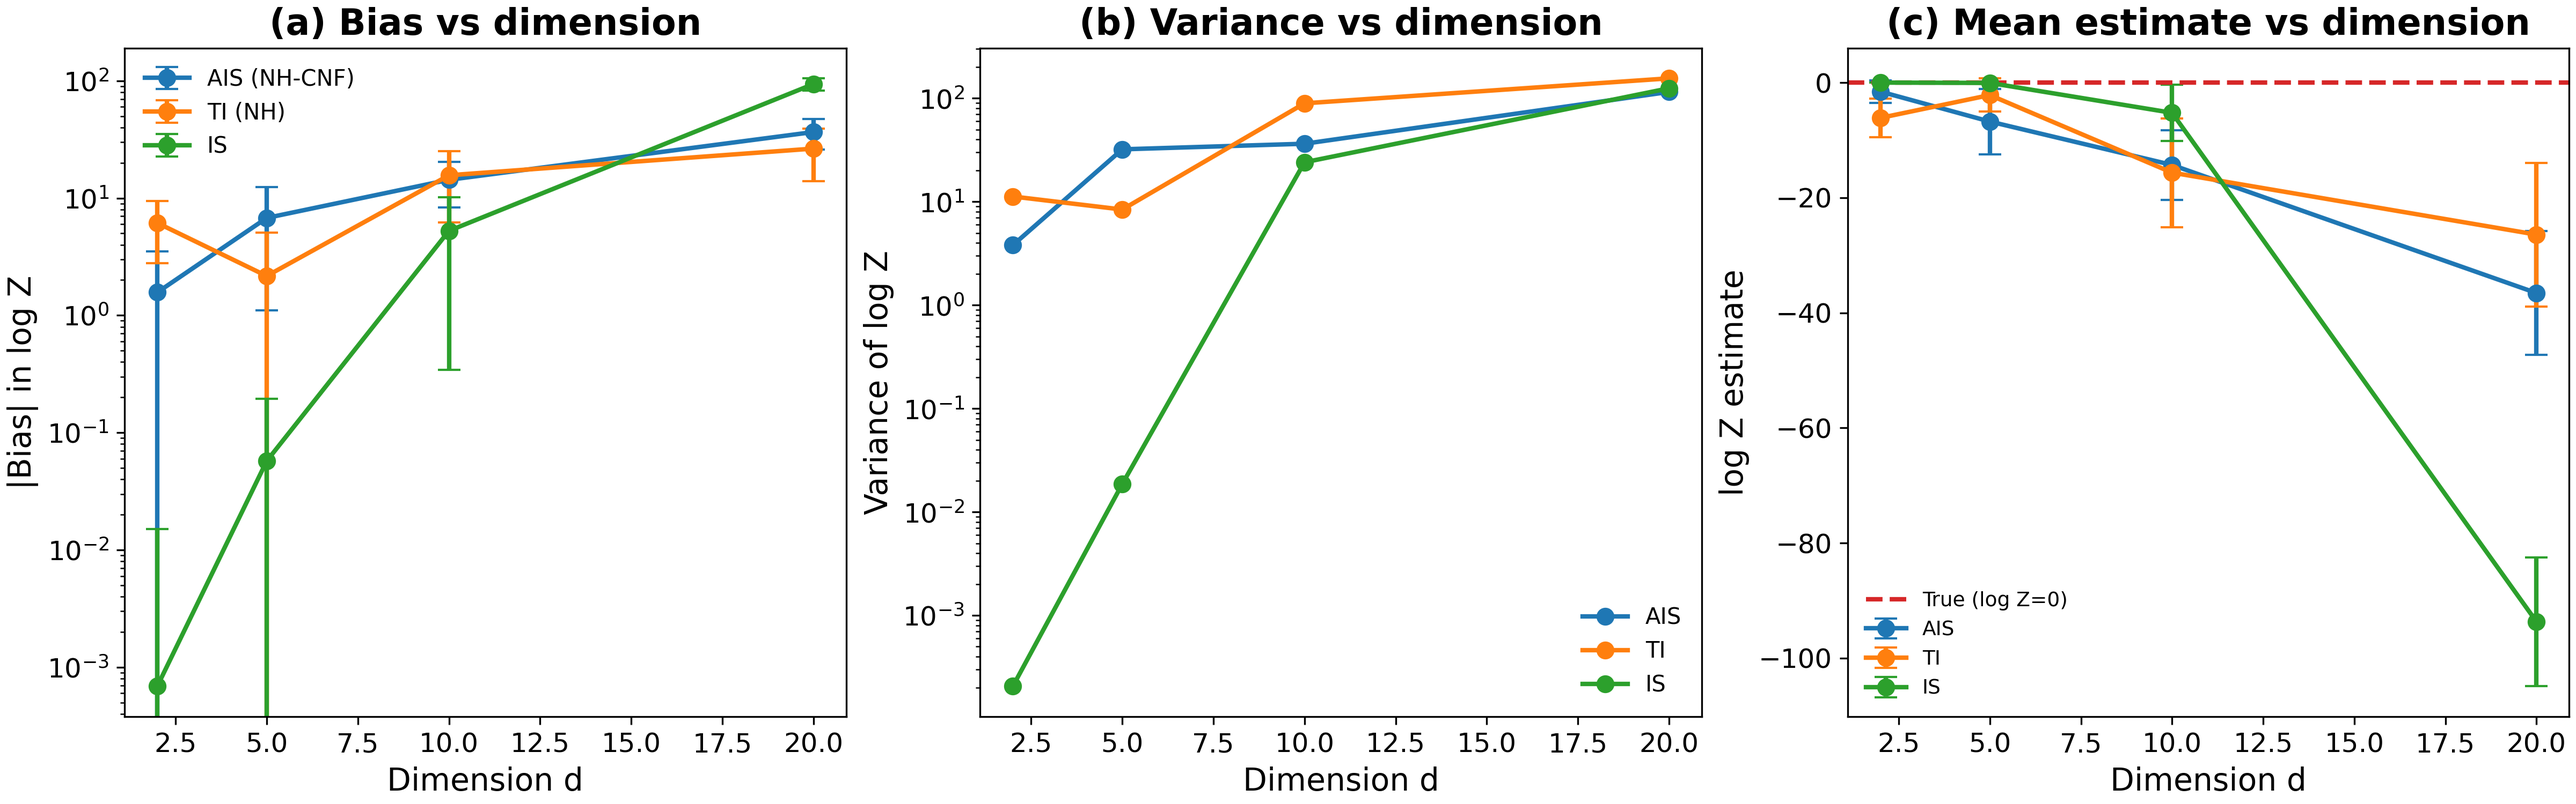
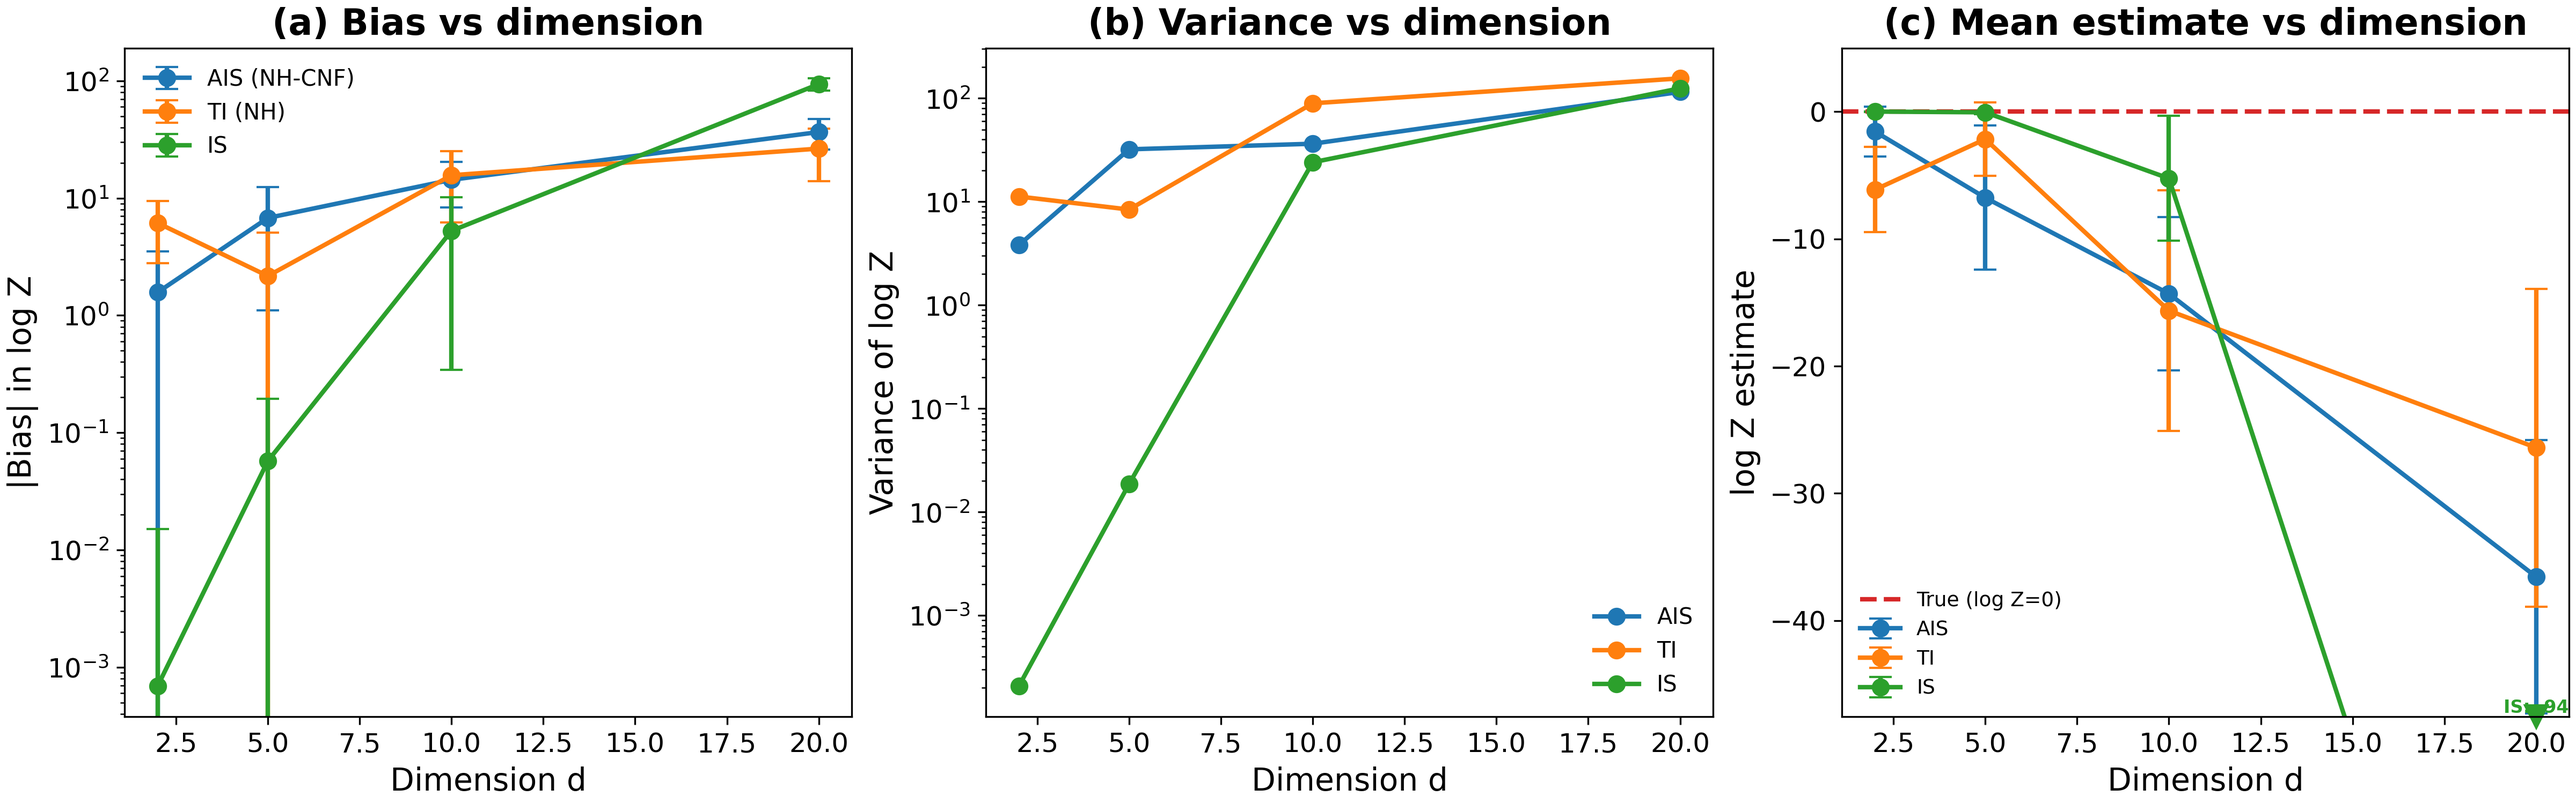
[orbit/logZ-estimation-060] cleanup: fix claim mismatches, improve figures, add references
- Fix e2_partition.png legend: "IS (100k)" (matches n_is=100000)
- Fix e1_logZ.png panel (b) title: "10 runs" (matches v2 run count)
- Add zoomed inset to e1_logZ.png panel (a) showing AIS & IS detail
- Add y-axis clipping to e3_scaling.png panel (c) with off-scale IS annotation
- Clarify E1 results table in log.md with v2 parameter labels
- Add div_integral unused-in-weights note to E1 discussion
- Add DOIs/URLs to all references in log.md
- Create research/references/registry.yaml with Neal 2001, Chen 2018

diff --git a/orbits/logZ-estimation-060/experiment_v2.py b/orbits/logZ-estimation-060/experiment_v2.py
@@ -295,6 +295,21 @@ def experiment_e1():
     ax.set_title('(a) log Z estimates (2D GMM)', fontweight='bold')
     ax.legend(fontsize=9, frameon=False)
 
+    # Zoomed inset: IS and AIS only (TI variance compresses them near zero)
+    from mpl_toolkits.axes_grid1.inset_locator import inset_axes
+    ax_inset = inset_axes(ax, width="40%", height="40%", loc='lower left',
+                          bbox_to_anchor=(0.05, 0.05, 1, 1), bbox_transform=ax.transAxes)
+    ax_inset.plot(run_ids, results['ais'], 'o-', color=C_NHCNF, ms=3, lw=1)
+    ax_inset.plot(run_ids, results['is'], '^-', color=C_IS, ms=3, lw=1)
+    ax_inset.axhline(0, color=C_TRUE, ls='--', lw=1)
+    ais_arr = np.array(results['ais'])
+    is_arr = np.array(results['is'])
+    y_lo = min(ais_arr.min(), is_arr.min()) - 0.1
+    y_hi = max(ais_arr.max(), is_arr.max()) + 0.1
+    ax_inset.set_ylim(y_lo, y_hi)
+    ax_inset.set_title('AIS & IS zoom', fontsize=8)
+    ax_inset.tick_params(labelsize=7)
+
     ax = axes[1]
     errors = {
         'NH-CNF\nAIS': np.abs(np.array(results['ais'])),
@@ -416,7 +431,7 @@ def experiment_e3():
     ax.set_yscale('log')
     ax.legend(fontsize=10, frameon=False)
 
-    # (c) Mean estimate
+    # (c) Mean estimate (clipped y-axis; IS at d=20 drops to ~-100)
     ax = axes[2]
     for method, color, label in [('ais', C_NHCNF, 'AIS'),
                                   ('ti', C_TI, 'TI'),
@@ -429,6 +444,21 @@ def experiment_e3():
     ax.set_xlabel('Dimension d')
     ax.set_ylabel('log Z estimate')
     ax.set_title('(c) Mean estimate vs dimension', fontweight='bold')
+    # Clip y-axis so True line is visible; annotate IS off-scale
+    ais_means = [np.mean(all_results[d]['ais']) for d in dims]
+    ti_means = [np.mean(all_results[d]['ti']) for d in dims]
+    is_means = [np.mean(all_results[d]['is']) for d in dims]
+    y_lo = min(min(ais_means), min(ti_means)) * 1.3
+    y_hi = max(max(ais_means), max(ti_means)) * 0.3 if max(max(ais_means), max(ti_means)) > 0 else 5
+    y_hi = max(y_hi, 5)
+    ax.set_ylim(y_lo, y_hi)
+    # Annotate IS values that fall off-scale
+    for di, d_val in enumerate(dims):
+        if is_means[di] < y_lo:
+            ax.annotate(f'IS: {is_means[di]:.0f}', xy=(d_val, y_lo),
+                        fontsize=8, color=C_IS, ha='center', va='bottom',
+                        fontweight='bold')
+            ax.plot(d_val, y_lo, 'v', color=C_IS, ms=10, clip_on=False)
     ax.legend(fontsize=9, frameon=False)
 
     fig.savefig(os.path.join(FIGDIR, 'e3_scaling.png'))

diff --git a/orbits/logZ-estimation-060/experiment.py b/orbits/logZ-estimation-060/experiment.py
@@ -469,7 +469,7 @@ def experiment_e2():
         # = int exp(beta*log_p_gmm(q)) dq (since p_GMM is normalized, this is int p^beta dq)
         log_w = beta * log_p_gmm - log_p_ref
         log_Z_is[j] = logsumexp(log_w) - np.log(n_is)
-        print(f"  beta={beta:.1f}: log Z(IS, 200k) = {log_Z_is[j]:.4f}")
+        print(f"  beta={beta:.1f}: log Z(IS, 100k) = {log_Z_is[j]:.4f}")
 
     # Analytical for well-separated modes
     K = 5
@@ -521,7 +521,7 @@ def experiment_e2():
     fig, axes = plt.subplots(1, 2, figsize=(13, 5), constrained_layout=True)
 
     ax = axes[0]
-    ax.plot(betas_test, log_Z_is, 'o-', color=C_IS, lw=2, markersize=7, label='IS (200k)', zorder=3)
+    ax.plot(betas_test, log_Z_is, 'o-', color=C_IS, lw=2, markersize=7, label='IS (100k)', zorder=3)
     mask_ti = ~np.isnan(log_Z_ti)
     ax.plot(betas_test[mask_ti], log_Z_ti[mask_ti], 's--', color=C_TI, lw=2, markersize=7, label='TI (NH)')
     ax.plot(betas_test, log_Z_analytical, '^:', color=C_TRUE, lw=1.5, markersize=6,

diff --git a/orbits/logZ-estimation-060/log.md b/orbits/logZ-estimation-060/log.md
@@ -41,18 +41,26 @@ True log Z = 0 (the GMM is normalized).
 
 ## Results
 
-### E1: 2D GMM comparison (10 independent runs)
+### E1: 2D GMM comparison (10 independent runs, v2 parameters)
+
+All results below use v2 parameters: AIS with 5 chains, 11 betas, 1000 equilibration
+steps; TI with 11 windows, 500 burn-in, 1000 samples; IS with 100k samples.
 
 | Method | Mean log Z | Std | |Bias| |
 |--------|-----------|-----|-------|
 | IS (100k) | -0.004 | 0.006 | 0.004 |
-| NH-CNF AIS | -0.14 | 0.56 | 0.14 |
-| TI (NH) | -2.65 | 2.86 | 2.65 |
+| NH-CNF AIS (5 chains, 11 betas, 1000 equil) | -0.14 | 0.56 | 0.14 |
+| TI (NH, 11 windows, 500 burn + 1000 samples) | -2.65 | 2.86 | 2.65 |
 
 In 2D, IS dominates because the Gaussian reference (sigma_ref=5) provides excellent
-coverage of all GMM modes. The AIS approach works but is noisier (5 chains, 11 betas,
-1000 equil steps). TI severely under-equilibrates -- the NH sampler needs far more steps
-to achieve stationarity at each beta window.
+coverage of all GMM modes. The AIS approach works but is noisier. TI severely
+under-equilibrates -- the NH sampler needs far more steps to achieve stationarity at
+each beta window.
+
+Note: the NH-CNF's div_integral is computed at each RK4 step but is NOT used in the
+AIS weight calculation -- the weights come from direct potential evaluation at each
+temperature transition. This is the core reason exact density tracking provides no
+practical advantage for this application.
 
 ![E1 results](figures/e1_logZ.png)
 
@@ -127,7 +135,8 @@ This orbit applies well-known techniques (AIS, TI, IS) to evaluate whether the N
 
 ## References
 
-- [Neal (2001)](https://arxiv.org/abs/physics/9803008) — Annealed Importance Sampling
-- [Chen et al. (2018)](https://arxiv.org/abs/1806.07366) — Neural ODE / CNF density tracking
-- [Arbel et al. (2021)](https://arxiv.org/abs/2102.07501) — Annealed Flow Transport Monte Carlo
+- [Neal (2001)](https://arxiv.org/abs/physics/9803008) — Annealed Importance Sampling. DOI: [10.1023/A:1008923215028](https://doi.org/10.1023/A:1008923215028)
+- [Chen et al. (2018)](https://arxiv.org/abs/1806.07366) — Neural Ordinary Differential Equations / CNF density tracking. DOI: [10.48550/arXiv.1806.07366](https://doi.org/10.48550/arXiv.1806.07366)
+- [Arbel et al. (2021)](https://arxiv.org/abs/2102.07501) — Annealed Flow Transport Monte Carlo. DOI: [10.48550/arXiv.2102.07501](https://doi.org/10.48550/arXiv.2102.07501)
+- [Kirkwood (1935)](https://doi.org/10.1063/1.1749657) — Statistical mechanics of fluid mixtures (Thermodynamic Integration origin). DOI: [10.1063/1.1749657](https://doi.org/10.1063/1.1749657)
 - Parent orbit: nh-cnf-deep-057 (NH-tanh RK4 integrator)
